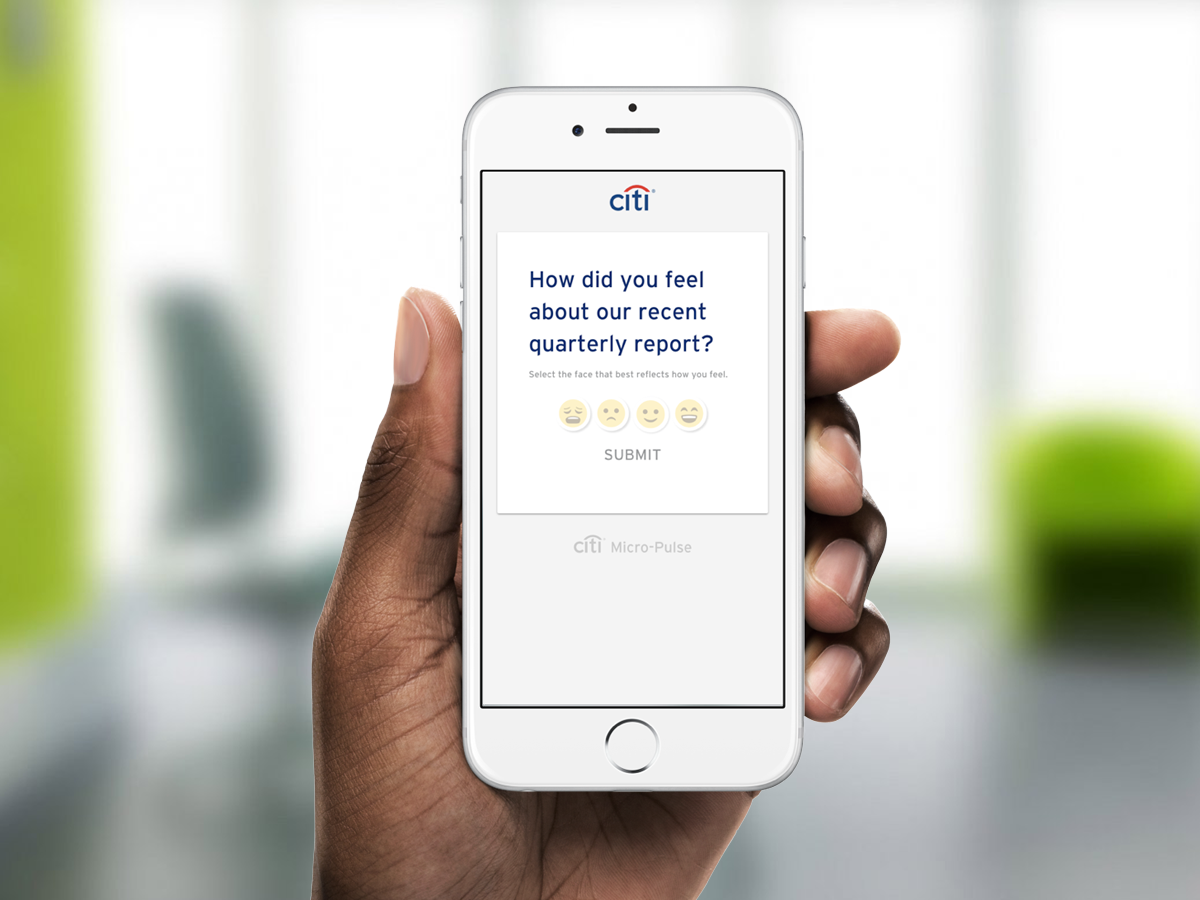
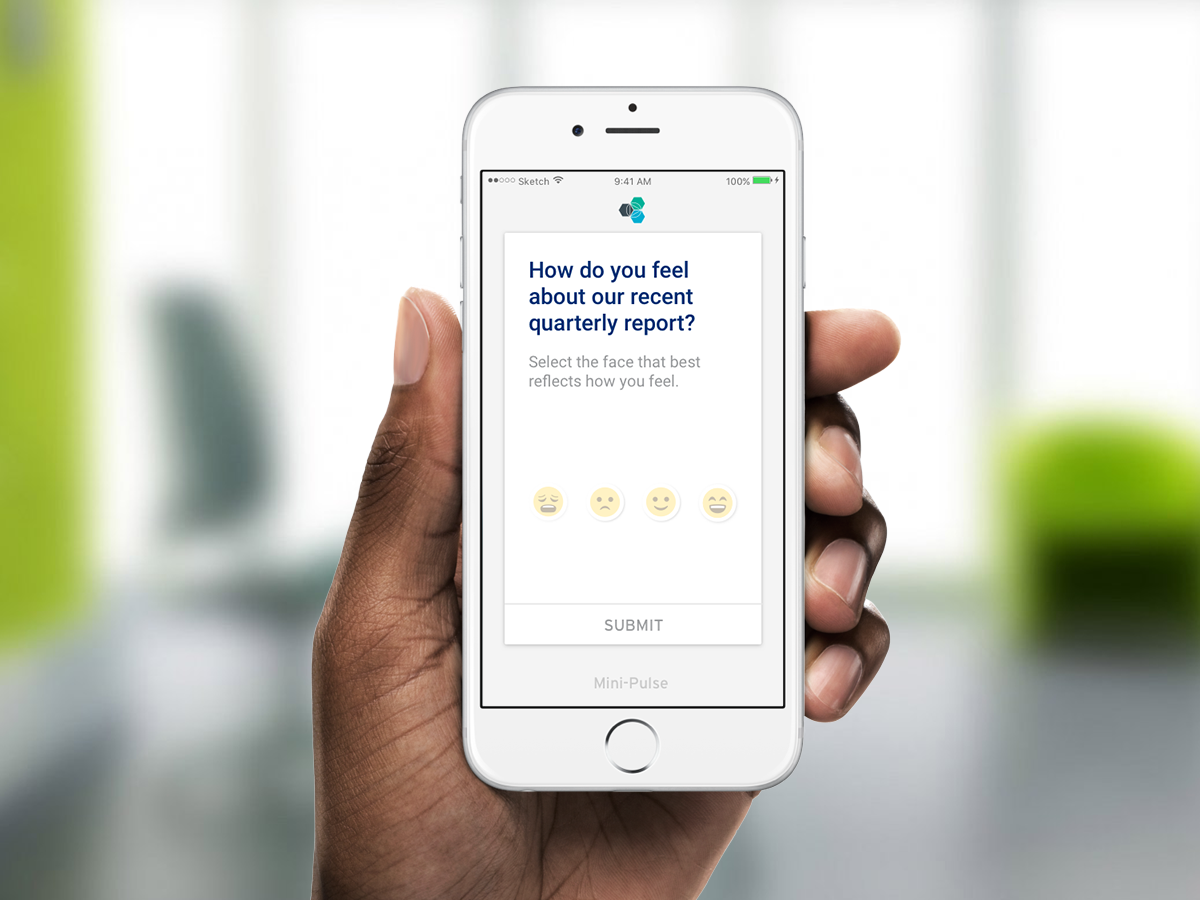
style and mini pulse
Style Updates, added mini pulse.

diff --git a/css/agency.min.css b/css/agency.min.css
@@ -1,1 +1,1 @@
-.text-muted,body{color:#777}.btn-primary.active,.btn-primary:active,.btn-xl.active,.btn-xl:active,.open .dropdown-toggle.btn-primary,.open .dropdown-toggle.btn-xl{background-image:none}body{overflow-x:hidden;font-family:Roboto,"Helvetica Neue",Helvetica,Arial,sans-serif;-webkit-tap-highlight-color:#1DE9B6}h1,h2,h3,h4,h5,h6{font-family:Montserrat,"Helvetica Neue",Helvetica,Arial,sans-serif;text-transform:uppercase;font-weight:700}.text-primary{color:#1DE9B6}p{font-size:14px;line-height:1.75}p.large{font-size:16px}blockquote,h6{font-size:24px}a,a.active,a:active,a:focus,a:hover{outline:0}a{color:#13c095}a.active,a:active,a:focus,a:hover{color:#1DE9B6}h1,h2,h3,h4,h5{color:#222}h6{color:#222;margin-bottom:30px}.img-centered{margin:0 auto;max-height:600px}.img-height{max-height:600px;padding:0 15px}.bg-light-gray{background-color:#F5F5F5}.bg-darkest-gray{background-color:#222}blockquote{font-family:Lora,"Helvetica Neue",Helvetica,Arial,sans-serif;background-color:#fff;color:#222;font-weight:400;text-align:left;margin:auto;border:none;padding:20px 30px;max-width:70%;box-shadow:2px 2px 15px #F5F5F5}.btn-primary,.btn-xl{font-family:Montserrat,"Helvetica Neue",Helvetica,Arial,sans-serif;text-transform:uppercase;font-weight:700;border-radius:0}.red{color:#e74c3c}.blue{color:#4FC3F7}.green{color:#1DE9B6}.orange{color:#fcd602}.white{color:#fff}.btn-primary{color:#fff;background-color:#1DE9B6;border-color:#1DE9B6}.btn-primary.active,.btn-primary:active,.btn-primary:focus,.btn-primary:hover,.open .dropdown-toggle.btn-primary{color:#fff;background-color:#13c095;border-color:#12b78e}.btn-primary.disabled,.btn-primary.disabled.active,.btn-primary.disabled:active,.btn-primary.disabled:focus,.btn-primary.disabled:hover,.btn-primary[disabled],.btn-primary[disabled].active,.btn-primary[disabled]:active,.btn-primary[disabled]:focus,.btn-primary[disabled]:hover,fieldset[disabled] .btn-primary,fieldset[disabled] .btn-primary.active,fieldset[disabled] .btn-primary:active,fieldset[disabled] .btn-primary:focus,fieldset[disabled] .btn-primary:hover{background-color:#1DE9B6;border-color:#1DE9B6}.btn-primary .badge{color:#1DE9B6;background-color:#fff}.btn-xl{color:#fff;background-color:#1DE9B6;border-color:#1DE9B6;font-size:18px;padding:20px 40px}.btn-xl.active,.btn-xl:active,.btn-xl:focus,.btn-xl:hover,.open .dropdown-toggle.btn-xl{color:#fff;background-color:#13c095;border-color:#12b78e}.btn-xl.disabled,.btn-xl.disabled.active,.btn-xl.disabled:active,.btn-xl.disabled:focus,.btn-xl.disabled:hover,.btn-xl[disabled],.btn-xl[disabled].active,.btn-xl[disabled]:active,.btn-xl[disabled]:focus,.btn-xl[disabled]:hover,fieldset[disabled] .btn-xl,fieldset[disabled] .btn-xl.active,fieldset[disabled] .btn-xl:active,fieldset[disabled] .btn-xl:focus,fieldset[disabled] .btn-xl:hover{background-color:#1DE9B6;border-color:#1DE9B6}.btn-xl .badge{color:#1DE9B6;background-color:#fff}.navbar-default{background-color:#222;border-color:transparent}.navbar-default .navbar-brand{color:#1DE9B6;font-family:"Libre Baskerville","Helvetica Neue",Helvetica,Arial,cursive;font-weight:700}.navbar-default .navbar-brand.active,.navbar-default .navbar-brand:active,.navbar-default .navbar-brand:focus,.navbar-default .navbar-brand:hover{color:#13c095}.navbar-default .navbar-collapse{border-color:fade(white,2%)}.navbar-default .navbar-toggle{background-color:#1DE9B6;border-color:#1DE9B6}.navbar-default .navbar-toggle .icon-bar{background-color:#fff}.navbar-default .navbar-toggle:focus,.navbar-default .navbar-toggle:hover{background-color:#1DE9B6}.navbar-default .nav li a{font-family:Montserrat,"Helvetica Neue",Helvetica,Arial,sans-serif;text-transform:uppercase;font-weight:400;letter-spacing:1px;color:#fff}.navbar-default .nav li a:focus,.navbar-default .nav li a:hover{color:#1DE9B6;outline:0}.navbar-default .navbar-nav>.active>a{border-radius:0;color:#fff;background-color:#1DE9B6}.navbar-default .navbar-nav>.active>a:focus,.navbar-default .navbar-nav>.active>a:hover{color:#fff;background-color:#13c095}@media (min-width:768px){.navbar-default{background-color:transparent;padding:25px 0;transition:padding .3s;border:none}.navbar-default .navbar-brand{font-size:2em;transition:all .3s}.navbar-default .navbar-brand img{height:inherit}.navbar-default .navbar-nav>.active>a{border-radius:0}.navbar-default.affix{background-color:#222;padding:10px 0}.navbar-default.affix .navbar-brand{font-size:1.5em}.navbar-default.affix .navbar-brand img{height:40px}}header{background-image:url(../img/header-bg.jpg);background-repeat:none;background-attachment:scroll;background-position:center center;background-size:cover;-o-background-size:cover;text-align:center;color:#fff}header .intro-text{padding-top:100px;padding-bottom:50px}header .intro-text .intro-lead-in{font-family:Lora,"Helvetica Neue",Helvetica,Arial,sans-serif;color:#1DE9B6;font-style:italic;font-size:22px;line-height:22px;margin-bottom:25px}header .intro-text .intro-heading{font-family:Montserrat,"Helvetica Neue",Helvetica,Arial,sans-serif;text-transform:uppercase;font-weight:700;font-size:50px;line-height:50px;margin-bottom:25px}@media (min-width:768px){header .intro-text{padding-top:300px;padding-bottom:200px}header .intro-text .intro-lead-in{font-family:Lora,"Helvetica Neue",Helvetica,Arial,sans-serif;font-style:italic;font-size:35px;line-height:25px;margin-bottom:25px}header .intro-text .intro-heading{font-family:Montserrat,"Helvetica Neue",Helvetica,Arial,sans-serif;text-transform:uppercase;font-weight:700;font-size:75px;line-height:75px;margin-bottom:50px}section{padding:100px 0}}section{padding:100px 0}section h2.section-heading{font-size:40px;margin-top:0;margin-bottom:15px}#portfolio .portfolio-item .portfolio-caption p,section h3.section-subheading{font-family:Lora,"Helvetica Neue",Helvetica,Arial,sans-serif;font-size:16px;font-style:italic}section h3.section-subheading{text-transform:none;font-weight:400;margin-bottom:75px}.service-heading{margin:15px 0;text-transform:none}#portfolio .portfolio-item{margin:0 0 5px;padding:15px;right:0}#portfolio .portfolio-item:hover{box-shadow:2px 2px 15px #BDBDBD;transform:scale(1.02);-webkit-transform:scale(1.02);-moz-transform:scale(1.02);transition:all ease .5s;-webkit-transition:all ease .5s;-moz-transition:all ease .5s}#portfolio .portfolio-item .portfolio-link{display:block;position:relative;max-width:400px;margin:0 auto}#portfolio .portfolio-item .portfolio-caption{max-width:400px;margin:0 auto;background-color:#fff;text-align:center;padding:25px}#portfolio .portfolio-item .portfolio-caption h4{text-transform:none;margin:0}#portfolio .portfolio-item .portfolio-caption p{margin:0}#portfolio *{z-index:2}.portfolio-img{display:block}@media (min-width:767px){#portfolio .portfolio-item{margin:0 0 30px}}.timeline{list-style:none;padding:0;position:relative}.timeline:before{top:0;bottom:10px;position:absolute;content:"";width:5px;background-color:#f1f1f1;left:42px;margin-left:-5px}.timeline>li{margin-bottom:50px;position:relative;min-height:50px}.timeline .timeline-body>p,.timeline .timeline-body>ul,.timeline>li:last-child{margin-bottom:0}.timeline>li:after,.timeline>li:before{content:" ";display:table}.timeline>li:after{clear:both}.timeline>li .timeline-panel{width:100%;float:right;padding:0 20px 0 100px;position:relative;text-align:left}.timeline>li .timeline-panel:before{border-left-width:0;border-right-width:15px;left:-15px;right:auto}.timeline>li .timeline-panel:after{border-left-width:0;border-right-width:14px;left:-14px;right:auto}.timeline>li .timeline-image{left:0;margin-left:0;width:80px;height:80px;position:absolute;z-index:100;background-color:#1DE9B6;color:#fff;border-radius:100%;border:7px solid #f1f1f1;text-align:center}.timeline>li .timeline-image h4{font-size:10px;margin-top:12px;line-height:14px;color:#fff}.timeline>li.timeline-inverted>.timeline-panel{float:right;text-align:left;padding:0 20px 0 100px}.timeline>li.timeline-inverted>.timeline-panel:before{border-left-width:0;border-right-width:15px;left:-15px;right:auto}.timeline>li.timeline-inverted>.timeline-panel:after{border-left-width:0;border-right-width:14px;left:-14px;right:auto}.timeline .timeline-heading h4{margin-top:0;color:#1DE9B6}.timeline .timeline-heading h4.subheading{text-transform:none}@media (min-width:768px){.timeline:before{left:50%}.timeline>li{margin-bottom:40px;min-height:100px}.timeline>li .timeline-panel{width:41%;float:left;padding:0 20px 20px 30px;text-align:right}.timeline>li .timeline-image{width:100px;height:100px;left:50%;margin-left:-50px}.timeline>li .timeline-image h4{font-size:13px;margin-top:16px;line-height:18px}.timeline>li.timeline-inverted>.timeline-panel{float:right;text-align:left;padding:0 30px 20px 20px}}@media (min-width:992px){.timeline>li .timeline-panel,.timeline>li.timeline-inverted>.timeline-panel{padding:0 20px 20px}.timeline>li{min-height:150px}.timeline>li .timeline-image{width:150px;height:150px;margin-left:-75px}.timeline>li .timeline-image h4{font-size:18px;margin-top:30px;line-height:26px}}@media (min-width:1200px){.timeline>li{min-height:170px}.timeline>li .timeline-panel{padding:0 20px 20px 100px}.timeline>li .timeline-image{width:160px;height:160px;margin-left:-85px}.timeline>li .timeline-image h4{margin-top:40px}.timeline>li.timeline-inverted>.timeline-panel{padding:0 100px 20px 20px}}.team-member{text-align:center;margin-bottom:50px}.team-member img{margin:0 auto;border:7px solid #fff}.team-member h4{margin-top:25px;margin-bottom:0;text-transform:none}.team-member p{margin-top:0}aside.clients img{margin:50px auto;max-height:75px;-webkit-filter:grayscale(90%);filter:grayscale(90%);transition:all .2s}aside.clients img:active,aside.clients img:focus,aside.clients img:hover{-webkit-filter:grayscale(0);filter:grayscale(0)}section#contact{background-color:#3c3c3c;background-image:url(../img/map-image.png);background-position:center;background-repeat:no-repeat}section#contact .section-heading,section#contact .section-subheading{color:#fff}section#contact .form-group input.form-control,section#contact .form-group textarea.form-control{color:#1DE9B6;font-size:16px;background-color:rgba(34,34,34,.6);font-weight:700;font-family:Montserrat,"Helvetica Neue",Helvetica,Arial,sans-serif}section#contact .form-group{margin-bottom:25px}section#contact .form-group input,section#contact .form-group textarea{padding:20px}section#contact .form-group input.form-control{height:auto}section#contact .form-group textarea.form-control{height:244px}section#contact .form-control:focus{border-color:#1DE9B6;box-shadow:none}section#contact ::-webkit-input-placeholder{font-family:Montserrat,"Helvetica Neue",Helvetica,Arial,sans-serif;text-transform:uppercase;font-weight:700;color:#e0e0e0}section#contact :-moz-placeholder{font-family:Montserrat,"Helvetica Neue",Helvetica,Arial,sans-serif;text-transform:uppercase;font-weight:700;color:#e0e0e0}section#contact ::-moz-placeholder{font-family:Montserrat,"Helvetica Neue",Helvetica,Arial,sans-serif;text-transform:uppercase;font-weight:700;color:#e0e0e0}section#contact :-ms-input-placeholder{font-family:Montserrat,"Helvetica Neue",Helvetica,Arial,sans-serif;text-transform:uppercase;font-weight:700;color:#e0e0e0}section#contact .text-danger{color:#e74c3c}footer{padding:25px 0;text-align:center;background-color:#222}footer span.copyright{line-height:40px;font-family:Montserrat,"Helvetica Neue",Helvetica,Arial,sans-serif;text-transform:uppercase;text-transform:none}footer ul.quicklinks{margin-bottom:0;line-height:40px;font-family:Montserrat,"Helvetica Neue",Helvetica,Arial,sans-serif;text-transform:uppercase;text-transform:none}ul.social-buttons{margin-bottom:0}ul.social-buttons li a{display:block;background-color:#222;height:40px;width:40px;border-radius:100%;font-size:20px;line-height:40px;color:#fff;outline:0;transition:all .3s}ul.social-buttons li a:active,ul.social-buttons li a:focus,ul.social-buttons li a:hover{background-color:#1DE9B6}.btn.active,.btn:active,.btn:active:focus,.btn:focus{outline:0}.portfolio-modal .modal-content{border-radius:0;background-clip:border-box;box-shadow:none;border:none;min-height:100%;padding:100px 0;text-align:center}.portfolio-modal .modal-content h2{margin-bottom:15px;font-size:3em}.portfolio-modal .modal-content strong{font-family:Montserrat,"Helvetica Neue",Helvetica,Arial,sans-serif;color:#222;text-transform:none}.portfolio-modal .modal-content p{margin-bottom:30px;text-align:left}.portfolio-modal .modal-content p.item-intro{margin:20px 0 30px;font-family:Lora,"Helvetica Neue",Helvetica,Arial,sans-serif;font-style:italic;font-size:16px;text-align:center}.portfolio-modal .modal-content ul.list-inline{font-family:Montserrat,"Helvetica Neue",Helvetica,Arial,sans-serif;text-transform:uppercase;text-transform:none;margin-bottom:30px;margin-top:0}.portfolio-modal .modal-content img{margin-bottom:30px}.portfolio-modal .modal-content figure{display:block;position:relative;overflow:hidden}.portfolio-modal .modal-content figure figcaption{position:absolute;margin-bottom:30px;background-color:rgba(29,233,182,.9);color:#fff;padding:10px 20px;max-width:85%;text-align:left;opacity:0;bottom:-20px;transition:all .2s ease;-webkit-transition:all ease .2s;-moz-transition:all ease .2s}.portfolio-modal .modal-content figure:hover figcaption{opacity:1;bottom:0}.portfolio-modal .close-modal{position:absolute;width:60px;height:60px;background-color:transparent;top:25px;right:50px;cursor:pointer}.portfolio-modal .close-modal:hover{opacity:.3}.portfolio-modal .close-modal .lr{height:60px;width:3px;margin-left:35px;background-color:#1DE9B6;transform:rotate(45deg);-ms-transform:rotate(45deg);-webkit-transform:rotate(45deg);z-index:1051}.portfolio-modal .close-modal .lr .rl{height:60px;width:3px;background-color:#1DE9B6;transform:rotate(90deg);-ms-transform:rotate(90deg);-webkit-transform:rotate(90deg);z-index:1052}.portfolio-modal .modal-backdrop{opacity:0;display:none}.modal-section{padding:30px 0}::-moz-selection{text-shadow:none;background:#1DE9B6}::selection{text-shadow:none;background:#1DE9B6}img::selection{background:0 0}img::-moz-selection{background:0 0}
+.text-muted,body{color:#9E9E9E}.btn-primary.active,.btn-primary:active,.btn-xl.active,.btn-xl:active,.open .dropdown-toggle.btn-primary,.open .dropdown-toggle.btn-xl{background-image:none}body{overflow-x:hidden;font-family:Montserrat,"Helvetica Neue",Helvetica,Arial,sans-serif;font-weight:400;-webkit-tap-highlight-color:#1DE9B6}h1,h2,h3,h4,h5,h6{font-family:Montserrat,"Helvetica Neue",Helvetica,Arial,sans-serif;text-transform:uppercase;font-weight:700}.text-primary{color:#1DE9B6}p{font-size:14px;line-height:1.75}p.large{font-size:16px}blockquote,h6{font-size:24px}a,a.active,a:active,a:focus,a:hover{outline:0}a{color:#13c095}a.active,a:active,a:focus,a:hover{color:#1DE9B6}h1,h2,h3,h4,h5{color:#222}h6{color:#222;margin-bottom:30px}.img-centered{margin:0 auto;max-height:600px}.img-height{max-height:600px;padding:0 15px}.bg-light-gray{background-color:#F5F5F5}.bg-darkest-gray{background-color:#222}blockquote{font-family:Lora,"Helvetica Neue",Helvetica,Arial,sans-serif;background-color:#fff;color:#222;font-weight:400;text-align:left;margin:auto;border:none;padding:20px 30px;max-width:70%;box-shadow:2px 2px 15px #F5F5F5}.btn-primary,.btn-xl,.navbar-default .navbar-brand{text-transform:uppercase;font-weight:700;font-family:Montserrat,"Helvetica Neue",Helvetica,Arial,sans-serif}.red{color:#e74c3c}.blue{color:#4FC3F7}.green{color:#1DE9B6}.orange{color:#fcd602}.white{color:#fff}.btn-primary{color:#fff;background-color:#1DE9B6;border-color:#1DE9B6;border-radius:0}.btn-primary.active,.btn-primary:active,.btn-primary:focus,.btn-primary:hover,.open .dropdown-toggle.btn-primary{color:#fff;background-color:#13c095;border-color:#12b78e}.btn-primary.disabled,.btn-primary.disabled.active,.btn-primary.disabled:active,.btn-primary.disabled:focus,.btn-primary.disabled:hover,.btn-primary[disabled],.btn-primary[disabled].active,.btn-primary[disabled]:active,.btn-primary[disabled]:focus,.btn-primary[disabled]:hover,fieldset[disabled] .btn-primary,fieldset[disabled] .btn-primary.active,fieldset[disabled] .btn-primary:active,fieldset[disabled] .btn-primary:focus,fieldset[disabled] .btn-primary:hover{background-color:#1DE9B6;border-color:#1DE9B6}.btn-primary .badge{color:#1DE9B6;background-color:#fff}.btn-xl{color:#fff;background-color:#1DE9B6;border-color:#1DE9B6;border-radius:0;font-size:18px;padding:20px 40px}.btn-xl.active,.btn-xl:active,.btn-xl:focus,.btn-xl:hover,.open .dropdown-toggle.btn-xl{color:#fff;background-color:#13c095;border-color:#12b78e}.btn-xl.disabled,.btn-xl.disabled.active,.btn-xl.disabled:active,.btn-xl.disabled:focus,.btn-xl.disabled:hover,.btn-xl[disabled],.btn-xl[disabled].active,.btn-xl[disabled]:active,.btn-xl[disabled]:focus,.btn-xl[disabled]:hover,fieldset[disabled] .btn-xl,fieldset[disabled] .btn-xl.active,fieldset[disabled] .btn-xl:active,fieldset[disabled] .btn-xl:focus,fieldset[disabled] .btn-xl:hover{background-color:#1DE9B6;border-color:#1DE9B6}.btn-xl .badge{color:#1DE9B6;background-color:#fff}.navbar-default{background-color:#222;border-color:transparent}.navbar-default .navbar-brand{color:#1DE9B6;text-transform:none}.navbar-default .navbar-brand.active,.navbar-default .navbar-brand:active,.navbar-default .navbar-brand:focus,.navbar-default .navbar-brand:hover{color:#13c095}.navbar-default .navbar-collapse{border-color:fade(white,2%)}.navbar-default .navbar-toggle{background-color:#1DE9B6;border-color:#1DE9B6}.navbar-default .navbar-toggle .icon-bar{background-color:#fff}.navbar-default .navbar-toggle:focus,.navbar-default .navbar-toggle:hover{background-color:#1DE9B6}.navbar-default .nav li a{font-family:Montserrat,"Helvetica Neue",Helvetica,Arial,sans-serif;text-transform:uppercase;font-weight:400;letter-spacing:1px;color:#fff}.navbar-default .nav li a:focus,.navbar-default .nav li a:hover{color:#1DE9B6;outline:0}.navbar-default .navbar-nav>.active>a{border-radius:0;color:#fff;background-color:#1DE9B6}.navbar-default .navbar-nav>.active>a:focus,.navbar-default .navbar-nav>.active>a:hover{color:#fff;background-color:#13c095}@media (min-width:768px){.navbar-default{background-color:transparent;padding:25px 0;transition:padding .3s;border:none}.navbar-default .navbar-brand{font-size:3em;transition:all .3s}.navbar-default .navbar-brand img{height:inherit}.navbar-default .navbar-nav>.active>a{border-radius:0}.navbar-default.affix{background-color:#222;padding:10px 0}.navbar-default.affix .navbar-brand{font-size:2em}.navbar-default.affix .navbar-brand img{height:40px}}header{background-image:url(../img/header-bg.jpg);background-repeat:none;background-attachment:fixed;background-position:center center;background-size:cover;-o-background-size:cover;text-align:center;color:#fff}header .intro-text{padding-top:100px;padding-bottom:50px}header .intro-text .intro-lead-in{font-family:Lora,"Helvetica Neue",Helvetica,Arial,sans-serif;color:#1DE9B6;font-style:italic;font-size:22px;line-height:22px;margin-bottom:25px}header .intro-text .intro-heading{font-family:Montserrat,"Helvetica Neue",Helvetica,Arial,sans-serif;text-transform:uppercase;font-weight:700;font-size:50px;line-height:50px;margin-bottom:25px}@media (min-width:768px){header .intro-text{padding-top:300px;padding-bottom:200px}header .intro-text .intro-lead-in{font-family:Lora,"Helvetica Neue",Helvetica,Arial,sans-serif;font-style:italic;font-size:35px;line-height:25px;margin-bottom:25px}header .intro-text .intro-heading{font-family:Montserrat,"Helvetica Neue",Helvetica,Arial,sans-serif;text-transform:uppercase;font-weight:700;font-size:75px;line-height:75px;margin-bottom:50px}section{padding:100px 0}}#portfolio .portfolio-item .portfolio-caption p,section h3.section-subheading{font-family:Lora,"Helvetica Neue",Helvetica,Arial,sans-serif;font-style:italic}section{padding:100px 0}section h2.section-heading{font-size:40px;margin-top:0;margin-bottom:15px}section h3.section-subheading{font-size:18px;text-transform:none;font-weight:400;margin-bottom:75px}.service-heading{margin:15px 0;text-transform:none}#portfolio .portfolio-item{margin:0 0 5px;padding:15px;right:0}#portfolio .portfolio-item:hover{box-shadow:2px 2px 15px #BDBDBD;transform:scale(1.02);-webkit-transform:scale(1.02);-moz-transform:scale(1.02);transition:all ease .5s;-webkit-transition:all ease .5s;-moz-transition:all ease .5s}#portfolio .portfolio-item .portfolio-link{display:block;position:relative;max-width:400px;margin:0 auto}#portfolio .portfolio-item .portfolio-caption{max-width:400px;margin:0 auto;background-color:#fff;text-align:left;padding:25px}#portfolio .portfolio-item .portfolio-caption h4{text-transform:none;margin:0}#portfolio .portfolio-item .portfolio-caption p{font-size:16px;margin:0}#portfolio *{z-index:2}.portfolio-img{display:block}@media (min-width:767px){#portfolio .portfolio-item{margin:0 0 30px}}.timeline{list-style:none;padding:0;position:relative}.timeline:before{top:0;bottom:10px;position:absolute;content:"";width:5px;background-color:#f1f1f1;left:42px;margin-left:-5px}.timeline>li{margin-bottom:50px;position:relative;min-height:50px}.timeline .timeline-body>p,.timeline .timeline-body>ul,.timeline>li:last-child{margin-bottom:0}.timeline>li:after,.timeline>li:before{content:" ";display:table}.timeline>li:after{clear:both}.timeline>li .timeline-panel{width:100%;float:right;padding:0 20px 0 100px;position:relative;text-align:left}.timeline>li .timeline-panel:before{border-left-width:0;border-right-width:15px;left:-15px;right:auto}.timeline>li .timeline-panel:after{border-left-width:0;border-right-width:14px;left:-14px;right:auto}.timeline>li .timeline-image{left:0;margin-left:0;width:80px;height:80px;position:absolute;z-index:100;background-color:#1DE9B6;color:#fff;border-radius:100%;border:7px solid #f1f1f1;text-align:center}.timeline>li .timeline-image h4{font-size:10px;margin-top:12px;line-height:14px;color:#fff}.timeline>li.timeline-inverted>.timeline-panel{float:right;text-align:left;padding:0 20px 0 100px}.timeline>li.timeline-inverted>.timeline-panel:before{border-left-width:0;border-right-width:15px;left:-15px;right:auto}.timeline>li.timeline-inverted>.timeline-panel:after{border-left-width:0;border-right-width:14px;left:-14px;right:auto}.timeline .timeline-heading h4{margin-top:0;color:#1DE9B6}.timeline .timeline-heading h4.subheading{text-transform:none}@media (min-width:768px){.timeline:before{left:50%}.timeline>li{margin-bottom:40px;min-height:100px}.timeline>li .timeline-panel{width:41%;float:left;padding:0 20px 20px 30px;text-align:right}.timeline>li .timeline-image{width:100px;height:100px;left:50%;margin-left:-50px}.timeline>li .timeline-image h4{font-size:13px;margin-top:16px;line-height:18px}.timeline>li.timeline-inverted>.timeline-panel{float:right;text-align:left;padding:0 30px 20px 20px}}@media (min-width:992px){.timeline>li .timeline-panel,.timeline>li.timeline-inverted>.timeline-panel{padding:0 20px 20px}.timeline>li{min-height:150px}.timeline>li .timeline-image{width:150px;height:150px;margin-left:-75px}.timeline>li .timeline-image h4{font-size:18px;margin-top:30px;line-height:26px}}@media (min-width:1200px){.timeline>li{min-height:170px}.timeline>li .timeline-panel{padding:0 20px 20px 100px}.timeline>li .timeline-image{width:160px;height:160px;margin-left:-85px}.timeline>li .timeline-image h4{margin-top:40px}.timeline>li.timeline-inverted>.timeline-panel{padding:0 100px 20px 20px}}.team-member{text-align:center;margin-bottom:50px}.team-member img{margin:0 auto;border:7px solid #fff}.team-member h4{margin-top:25px;margin-bottom:0;text-transform:none}.team-member p{margin-top:0}aside.clients img{margin:50px auto;max-height:75px;-webkit-filter:grayscale(100%);filter:grayscale(100%);opacity:.4;transition:all .2s}aside.clients img:active,aside.clients img:focus,aside.clients img:hover{-webkit-filter:grayscale(0);filter:grayscale(0);opacity:1}section#contact{background-color:#3c3c3c;background-image:url(../img/map-image.png);background-position:center;background-repeat:no-repeat}section#contact .section-heading,section#contact .section-subheading{color:#fff}section#contact .form-group input.form-control,section#contact .form-group textarea.form-control{color:#1DE9B6;font-size:16px;background-color:rgba(34,34,34,.6);font-weight:700;font-family:Montserrat,"Helvetica Neue",Helvetica,Arial,sans-serif}section#contact .form-group{margin-bottom:25px}section#contact .form-group input,section#contact .form-group textarea{padding:20px}section#contact .form-group input.form-control{height:auto}section#contact .form-group textarea.form-control{height:244px}section#contact .form-control:focus{border-color:#1DE9B6;box-shadow:none}section#contact ::-webkit-input-placeholder{font-family:Montserrat,"Helvetica Neue",Helvetica,Arial,sans-serif;text-transform:uppercase;font-weight:700;color:#e0e0e0}section#contact :-moz-placeholder{font-family:Montserrat,"Helvetica Neue",Helvetica,Arial,sans-serif;text-transform:uppercase;font-weight:700;color:#e0e0e0}section#contact ::-moz-placeholder{font-family:Montserrat,"Helvetica Neue",Helvetica,Arial,sans-serif;text-transform:uppercase;font-weight:700;color:#e0e0e0}section#contact :-ms-input-placeholder{font-family:Montserrat,"Helvetica Neue",Helvetica,Arial,sans-serif;text-transform:uppercase;font-weight:700;color:#e0e0e0}section#contact .text-danger{color:#e74c3c}footer{padding:25px 0;text-align:center;background-color:#222}footer span.copyright{line-height:40px;font-family:Montserrat,"Helvetica Neue",Helvetica,Arial,sans-serif;text-transform:uppercase;text-transform:none}footer ul.quicklinks{margin-bottom:0;line-height:40px;font-family:Montserrat,"Helvetica Neue",Helvetica,Arial,sans-serif;text-transform:uppercase;text-transform:none}ul.social-buttons{margin-bottom:0}ul.social-buttons li a{display:block;background-color:#222;height:40px;width:40px;border-radius:100%;font-size:20px;line-height:40px;color:#fff;outline:0;transition:all .3s}ul.social-buttons li a:active,ul.social-buttons li a:focus,ul.social-buttons li a:hover{background-color:#1DE9B6}.btn.active,.btn:active,.btn:active:focus,.btn:focus{outline:0}.portfolio-modal .modal-content{border-radius:0;background-clip:border-box;box-shadow:none;border:none;min-height:100%;padding:100px 0;text-align:center}.portfolio-modal .modal-content h2{margin-bottom:15px;font-size:3em}.portfolio-modal .modal-content strong{font-family:Montserrat,"Helvetica Neue",Helvetica,Arial,sans-serif;color:#222;text-transform:none}.portfolio-modal .modal-content p{margin-bottom:30px;text-align:left}.portfolio-modal .modal-content p.item-intro{margin:20px 0 30px;font-family:Lora,"Helvetica Neue",Helvetica,Arial,sans-serif;font-style:italic;font-size:16px;text-align:center}.portfolio-modal .modal-content ul.list-inline{font-family:Montserrat,"Helvetica Neue",Helvetica,Arial,sans-serif;text-transform:uppercase;text-transform:none;margin-bottom:30px;margin-top:0}.portfolio-modal .modal-content img{margin-bottom:30px}.portfolio-modal .modal-content figure{display:block;position:relative;overflow:hidden}.portfolio-modal .modal-content figure figcaption{position:absolute;margin-bottom:30px;background-color:rgba(29,233,182,.9);color:#fff;padding:10px 20px;max-width:85%;text-align:left;opacity:0;bottom:-20px;transition:all .2s ease;-webkit-transition:all ease .2s;-moz-transition:all ease .2s}.portfolio-modal .modal-content figure:hover figcaption{opacity:1;bottom:0}.portfolio-modal .close-modal{position:absolute;width:60px;height:60px;background-color:transparent;top:25px;right:50px;cursor:pointer}.portfolio-modal .close-modal:hover{opacity:.3}.portfolio-modal .close-modal .lr{height:60px;width:3px;margin-left:35px;background-color:#1DE9B6;transform:rotate(45deg);-ms-transform:rotate(45deg);-webkit-transform:rotate(45deg);z-index:1051}.portfolio-modal .close-modal .lr .rl{height:60px;width:3px;background-color:#1DE9B6;transform:rotate(90deg);-ms-transform:rotate(90deg);-webkit-transform:rotate(90deg);z-index:1052}.portfolio-modal .modal-backdrop{opacity:0;display:none}.modal-section{padding:30px 0}::-moz-selection{text-shadow:none;background:#1DE9B6}::selection{text-shadow:none;background:#1DE9B6}img::selection{background:0 0}img::-moz-selection{background:0 0}

diff --git a/index.html b/index.html
@@ -61,7 +61,7 @@
                 <a class="navbar-brand page-scroll" href="#page-top">
                   <!--img src="img/logos/jds.png" class="img-responsive" alt="">
                 </a-->
-                <a class="navbar-brand page-scroll" href="#page-top">J. Drew Smith</a>
+                <a contenteditable class="navbar-brand page-scroll" href="#page-top">J<span style="color: white">Drew</span></a>
             </div>
 
             <!-- Collect the nav links, forms, and other content for toggling -->
@@ -102,6 +102,43 @@
             </div>
         </div>
     </header>
+    <!-- Icons Aside -->
+    <aside class="clients bg-light-gray">
+        <div class="container">
+            <div class="row">
+              <div class="col-sm-2">
+                  <figure>
+                      <img src="img/logos/sketch.png" class="img-responsive img-centered" alt="">
+                  </figure>
+              </div>
+              <div class="col-sm-2">
+                  <figure>
+                      <img src="img/logos/atom.png" class="img-responsive img-centered" alt="">
+                  </figure>
+              </div>
+              <div class="col-sm-2">
+                  <figure>
+                      <img src="img/logos/adobe-illustrator.png" class="img-responsive img-centered" alt="">
+                  </figure>
+              </div>
+              <div class="col-sm-2">
+                  <figure>
+                      <img src="img/logos/adobe-photoshop.png" class="img-responsive img-centered" alt="">
+                  </figure>
+              </div>
+              <div class="col-sm-2">
+                  <figure>
+                      <img src="img/logos/adobe-indesign.png" class="img-responsive img-centered" alt="">
+                  </figure>
+              </div>
+              <div class="col-sm-2">
+                  <figure>
+                      <img src="img/logos/framer.png" class="img-responsive img-centered" alt="">
+                  </figure>
+              </div>
+            </div>
+        </div>
+    </aside>
 
     <!-- Process Section -->
     <section id="Process">
@@ -119,7 +156,7 @@
                         <i class="fa fa-users fa-stack-1x fa-inverse"></i>
                     </span>
                     <h4 class="process-heading">User Centered</h4>
-                    <p class="text-muted">Software is built for users. I am passionate about delivering engaging expeiences and encouraging others to have that same passion.</p>
+                    <p class="text-muted">Software is built for people. I am passionate about delivering engaging experiences and encouraging others to have that same passion.</p>
                 </div>
                 <div class="col-md-4">
                     <span class="fa-stack fa-4x">
@@ -156,6 +193,20 @@
                 </div>
             </div>
             <div class="row">
+              <!-- 8 Mini Pulse -->
+              <div class="col-md-4 col-sm-6 portfolio-item">
+                  <a href="#portfolioModal6" class="portfolio-link" data-toggle="modal">
+                      <div class="portfolio-hover">
+                          <div class="portfolio-hover-content">
+                          </div>
+                      </div>
+                      <img src="img/portfolio/8-minipulse/minipulse-header.png" class="img-responsive" alt="">
+                  </a>
+                  <div class="portfolio-caption">
+                      <h4>Mini-Pulse Survey</h4>
+                      <p class="text-muted">Bluemix Garage Engagement</p>
+                  </div>
+              </div>
                 <!-- 1 IBM Cloud -->
                 <div class="col-md-4 col-sm-6 portfolio-item">
                     <a href="#portfolioModal1" class="portfolio-link" data-toggle="modal">
@@ -182,20 +233,6 @@
                     <div class="portfolio-caption">
                         <h4>IBC Bank Redesign</h4>
                         <p class="text-muted">Design Challenge</p>
-                    </div>
-                </div>
-                <!-- 3 SXSW -->
-                <div class="col-md-4 col-sm-6 portfolio-item">
-                    <a href="#portfolioModal4" class="portfolio-link" data-toggle="modal">
-                        <div class="portfolio-hover">
-                            <div class="portfolio-hover-content">
-                            </div>
-                        </div>
-                        <img src="img/portfolio/3-sxsw/sxsw-preview.jpg" class="img-responsive" alt="">
-                    </a>
-                    <div class="portfolio-caption">
-                        <h4>IBM Design Hive</h4>
-                        <p class="text-muted">SXSW Event Design</p>
                     </div>
                 </div>
                 <!-- 4 Open Pages -->
@@ -226,18 +263,18 @@
                         <p class="text-muted">Accessibility Hackathon</p>
                     </div>
                 </div>
-                <!-- 7 Magazine -->
+                <!-- 3 SXSW -->
                 <div class="col-md-4 col-sm-6 portfolio-item">
-                    <a href="#portfolioModal6" class="portfolio-link" data-toggle="modal">
+                    <a href="#portfolioModal4" class="portfolio-link" data-toggle="modal">
                         <div class="portfolio-hover">
                             <div class="portfolio-hover-content">
                             </div>
                         </div>
-                        <img src="img/portfolio/7-magazine/x-preview.jpg" class="img-responsive" alt="">
+                        <img src="img/portfolio/3-sxsw/sxsw-preview.jpg" class="img-responsive" alt="">
                     </a>
                     <div class="portfolio-caption">
-                        <h4>All Things X</h4>
-                        <p class="text-muted">Internal Magazine</p>
+                        <h4>IBM Design Hive</h4>
+                        <p class="text-muted">SXSW Event Design</p>
                     </div>
                 </div>
             </div>
@@ -419,45 +456,7 @@
         </div>
     </section -->
 
-    <!-- Clients Aside -->
-    <aside class="clients bg-light-gray">
-        <div class="container">
-            <div class="row">
-              <div class="col-sm-2">
-                  <figure>
-                      <img src="img/logos/sketch.png" class="img-responsive img-centered" alt="">
-                  </figure>
-              </div>
-              <div class="col-sm-2">
-                  <figure>
-                      <img src="img/logos/atom.png" class="img-responsive img-centered" alt="">
-                  </figure>
-              </div>
-              <div class="col-sm-2">
-                  <figure>
-                      <img src="img/logos/adobe-illustrator.png" class="img-responsive img-centered" alt="">
-                  </figure>
-              </div>
-              <div class="col-sm-2">
-                  <figure>
-                      <img src="img/logos/adobe-photoshop.png" class="img-responsive img-centered" alt="">
-                  </figure>
-              </div>
-              <div class="col-sm-2">
-                  <figure>
-                      <img src="img/logos/adobe-indesign.png" class="img-responsive img-centered" alt="">
-                  </figure>
-              </div>
-              <div class="col-sm-2">
-                  <figure>
-                      <img src="img/logos/framer.png" class="img-responsive img-centered" alt="">
-                  </figure>
-              </div>
-            </div>
-        </div>
-    </aside>
-
-    <!-- Contact Section -->
+    <!-- Contact Section
     <section id="contact">
         <div class="container">
             <div class="row">
@@ -500,7 +499,7 @@
                 </div>
             </div>
         </div>
-    </section>
+    </section>-->
 
     <footer>
         <div class="container">
@@ -512,7 +511,7 @@
                     <ul class="list-inline social-buttons">
                         <li><a href="https://twitter.com/jrewsmith"><i class="fa fa-twitter"></i></a>
                         </li>
-                        <li><a href="https://www.facebook.com/joseph.d.smith.92"><i class="fa fa-facebook"></i></a>
+                        <li><a href="https://www.facebook.com/jrewsmith"><i class="fa fa-facebook"></i></a>
                         </li>
                         <li><a href="https://www.linkedin.com/in/jdrewsmith"><i class="fa fa-linkedin"></i></a>
                         </li>
@@ -550,7 +549,7 @@
                             <ul class="list-inline">
                                 <li><strong>Role:</strong> Product Designer & Fascilitator</li>
                                 <li><strong>Type:</strong> Team Project</li>
-                                <li><strong>Duration:</strong> 11 Months (Ongoing)</li>
+                                <li><strong>Duration:</strong> 11 Months</li>
                             </ul>
                             <img class="img-responsive img-centered" src="img/portfolio/1-cloud/ibmcloud-mockup.png" alt="">
                             <div class="modal-section row">
@@ -1017,17 +1016,17 @@
                     <div class="col-lg-10 col-lg-offset-1">
                         <div class="modal-body">
                             <!-- Project Details Go Here -->
-                            <h2 class="">All Things X Magazine</h2>
+                            <h2 class="">Mini-Pulse Survey</h2>
                             <ul class="list-inline">
-                                <li><strong>Role:</strong> Author & Designer</li>
-                                <li><strong>Type:</strong> Culture Project</li>
-                                <li><strong>Duration:</strong> 4 Months</li>
+                                <li><strong>Role:</strong> UX & Visual Designer</li>
+                                <li><strong>Type:</strong> Client Engagement</li>
+                                <li><strong>Duration:</strong> 2 Weeks</li>
                             </ul>
-                            <img class="img-responsive img-centered" src="img/portfolio/7-magazine/x-preview.jpg" alt="">
-                            <p>The <i>All Things X</i> magazine was the passion project of my friend and colleague, Adam Lehman. The magazine intends to highlight and promote the culture of IBM Design internally. The first issue garnered a lot of attention and positive feedback. I was brought in to help as an author and a designer for the second issue. Working on it has given me the opportunity to dive into IBM's history and gain a greater appreciation of for the proccess that led to the innovations that we take for granted today. I will have more to show after he magazine goes to print later this year!</p>
+                            <img class="img-responsive img-centered" src="img/portfolio/8-minipulse/minipulse-header.png" alt="">
+                            <p>I worked with a couple of developers to build an app for the HR department of one of our enterprise clients. During our full day Design Thinking Workshop we identified users, pain points, and brainstormed what a solution would look like. Our goal was build an application that solved their two biggest pain points: Timely feedack, making feedback actionable for managers. We hypothesized that if we built an app that enable managers to conduct mini-pulse surveys and see the feedback live, the surveys could be more targeted, more employees would participate, and the feedback from the survey would be more actionable. In a fast-paced couple weeks, we build the Mini-Pulse app where a manager could quickly create a question and share a custom link out to the desired employees. The manager could monitor results in real time and even get analysis and insights based on Watson Sentiment and Tone Analysis.</p>
                             <div class="modal-section">
                               <h3 class="">More coming soon...</h3>
-                              <blockquote>The magazine will go to print later this year. Come back again soon to see more!</blockquote>
+                              <blockquote>I am updating the work from this project as we speak. Come back again soon to see more!</blockquote>
                             </div>
                             <button type="button" class="btn btn-primary" data-dismiss="modal"><i class="fa fa-times"></i> Close Project</button>
                         </div>

diff --git a/scss/agency.scss b/scss/agency.scss
@@ -6,6 +6,7 @@
 body {
   overflow-x: hidden;
   @include body-font;
+  font-weight: 400;
   color: $gray;
 }
 
@@ -142,7 +143,8 @@ blockquote {
 
   .navbar-brand {
     color: $brand-primary;
-    @include script-font;
+    @include heading-font;
+    text-transform: none;
     font-weight: 700;
 
     &.active,
@@ -211,7 +213,7 @@ blockquote {
     border: none;
 
     .navbar-brand {
-      font-size: 2em;
+      font-size: 3em;
       -webkit-transition: all 0.3s;
       -moz-transition: all 0.3s;
       transition: all 0.3s;
@@ -233,7 +235,7 @@ blockquote {
     padding: 10px 0;
 
     .navbar-brand {
-      font-size: 1.5em;
+      font-size: 2em;
 
       img {
         height: 40px;
@@ -246,7 +248,7 @@ blockquote {
 header {
   background-image: url('../img/header-bg.jpg');
   background-repeat: none;
-  background-attachment: scroll;
+  background-attachment: fixed;
   background-position: center center;
   @include background-cover;
   text-align: center;
@@ -312,7 +314,7 @@ section {
   }
 
   h3.section-subheading {
-    font-size: 16px;
+    font-size: 18px;
     @include serif-font;
     text-transform: none;
     font-style: italic;
@@ -363,7 +365,7 @@ section {
       max-width: 400px;
       margin: 0 auto;
       background-color: white;
-      text-align: center;
+      text-align: left;
       padding: 25px;
 
       h4 {
@@ -640,7 +642,8 @@ aside.clients {
   img {
     margin: 50px auto;
     max-height: 75px;
-    filter: grayscale(90%);
+    filter: grayscale(100%);
+    opacity: .4;
     -webkit-transition: all 0.2s;
     -moz-transition: all 0.2s;
     transition: all 0.2s;
@@ -649,6 +652,7 @@ aside.clients {
     &:focus,
     &:hover {
     filter: grayscale(0%);
+    opacity: 1;
     }
   }
 }

diff --git a/scss/_mixins.scss b/scss/_mixins.scss
@@ -61,7 +61,7 @@
 }
 
 @mixin body-font {
-  font-family: "Roboto", "Helvetica Neue", Helvetica, Arial, sans-serif;
+  font-family: "Montserrat", "Helvetica Neue", Helvetica, Arial, sans-serif;
 }
 
 @mixin heading-font {

diff --git a/scss/_variables.scss b/scss/_variables.scss
@@ -5,7 +5,7 @@ $brand-secondary: #4FC3F7;
 $brand-danger: #e74c3c;
 $brand-warning: #fcd602;
 $gray-darkest: #222;
-$gray: #777;
+$gray: #9E9E9E;
 $gray-lighter: #F5F5F5;
 $placeholder-text: #e0e0e0;
 
